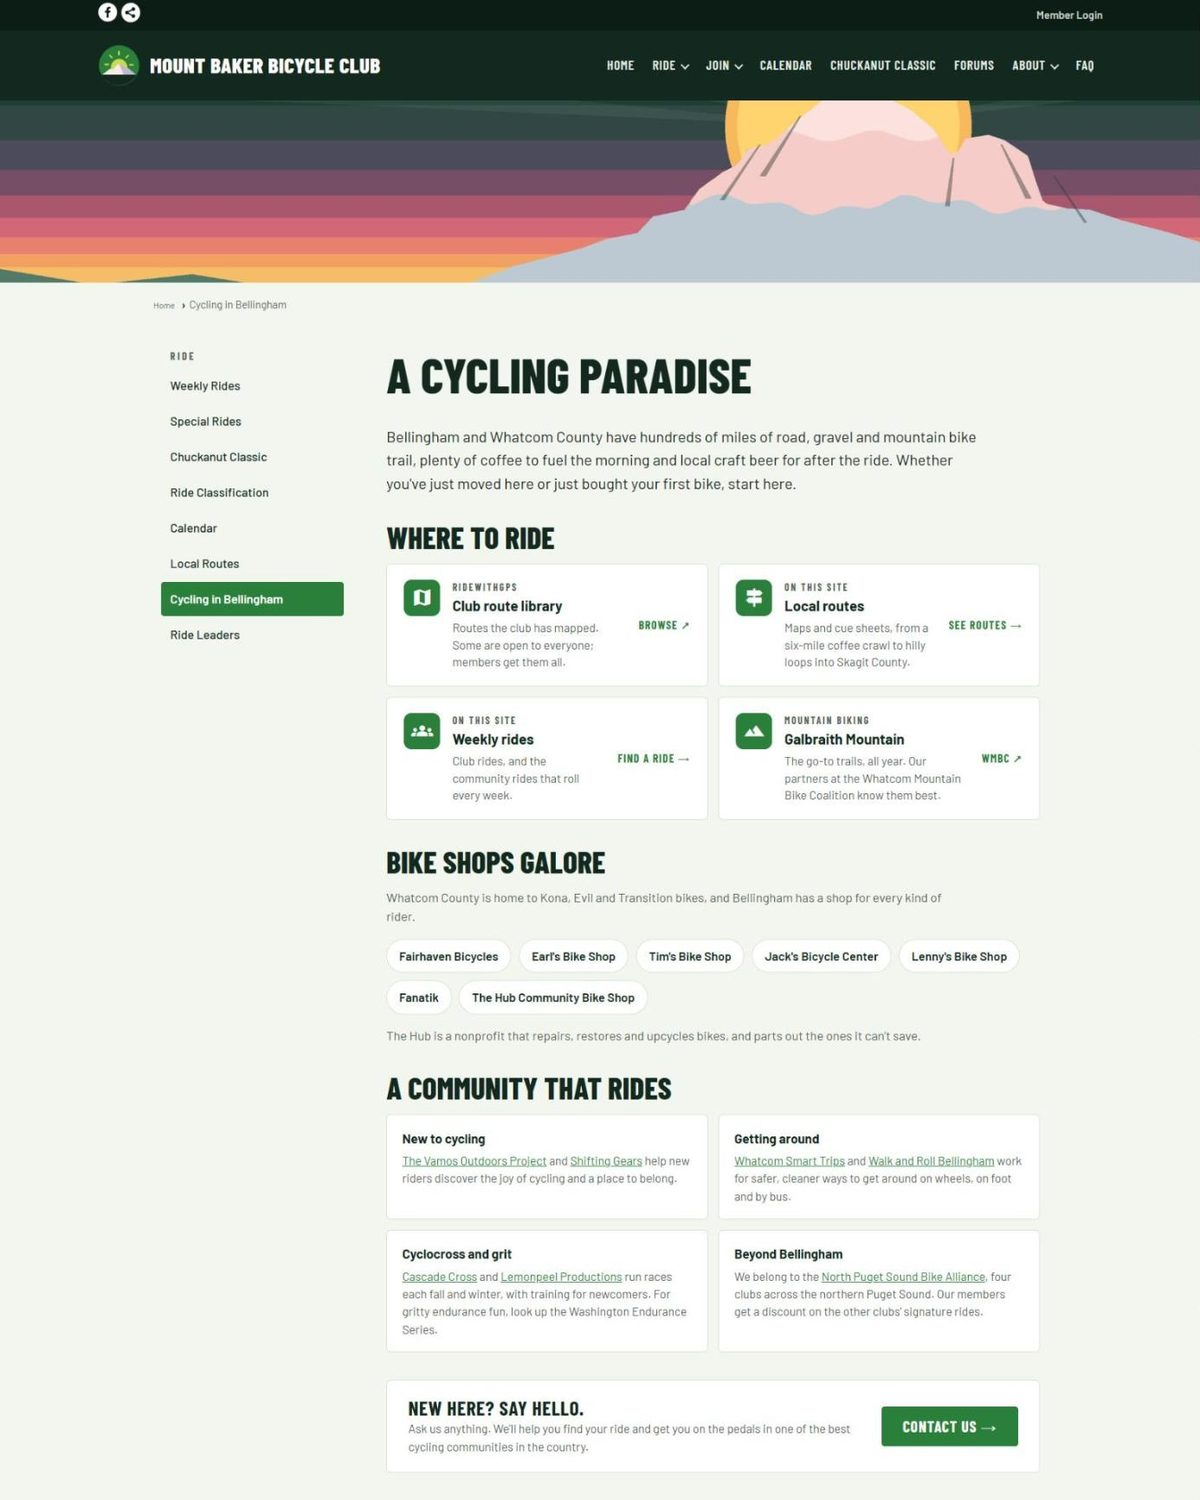
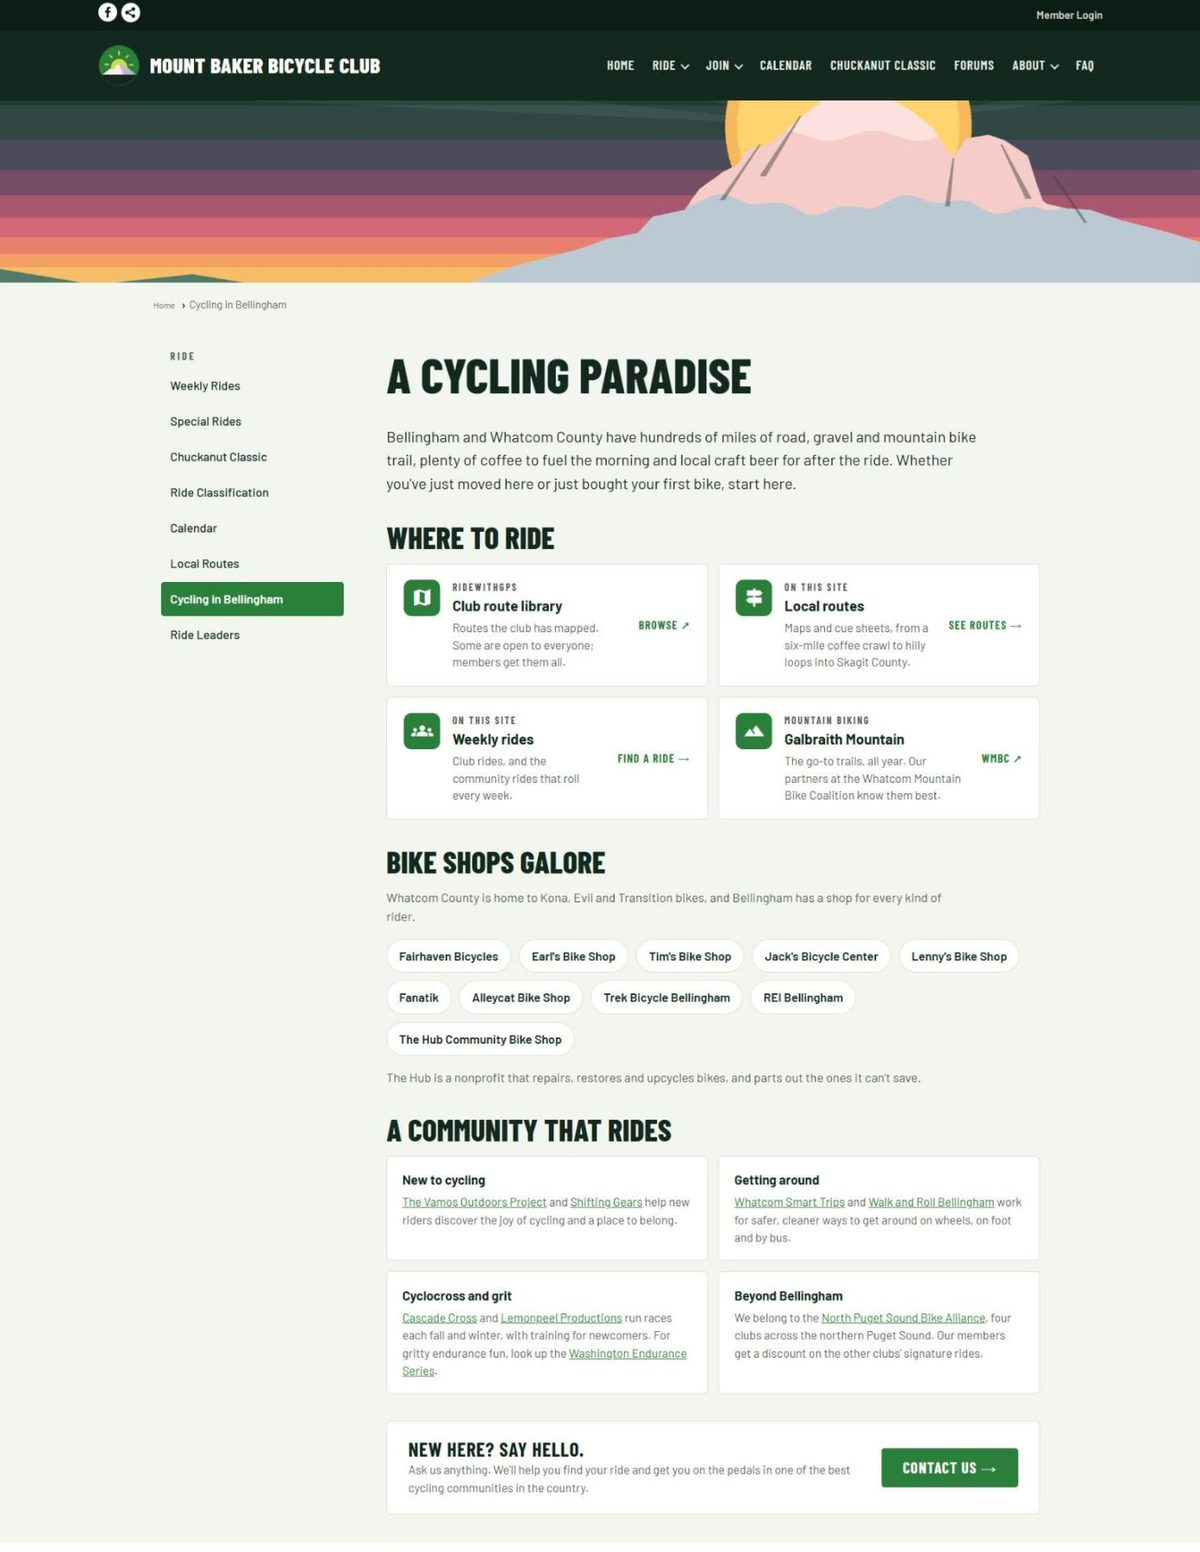
Show the full shop list and the inviting look
Retakes the Cycling in Bellingham and Where we ride shots after adding
Alleycat, Trek and REI, and says in the introduction why the look matters:
an inviting site gets people to look around.

diff --git a/index.html b/index.html
@@ -379,7 +379,7 @@
   <div class="wrap">
     <p class="eyebrow">Mount Baker Bicycle Club · For the board</p>
     <h1>A new look for <span>mtbakerbikeclub.org</span></h1>
-    <p class="lede">The proposed redesign of our website, side by side with the site we have today. It's ready in ClubExpress as a saved draft. Nothing changes on the live site until the board approves it.</p>
+    <p class="lede">The proposed redesign of our website, side by side with the site we have today. A site that looks inviting gets people to look around: to find a ride, to join, and to come back. It's ready in ClubExpress as a saved draft. Nothing changes on the live site until the board approves it.</p>
   </div>
 </header>
 
@@ -538,7 +538,7 @@
       </figure>
       <figure class="shot">
         <figcaption><span class="tag tag-new">Proposed</span>Cycling in Bellingham</figcaption>
-        <a class="frame" href="img/bellingham-after.jpg"><img src="img/bellingham-after.jpg" width="1200" height="1500" loading="lazy" alt="The proposed Cycling in Bellingham page, headed A cycling paradise: cards for where to ride, the local bike shops as buttons, four cards on the cycling community, and a New here? Say hello box with a Contact us button."></a>
+        <a class="frame" href="img/bellingham-after.jpg"><img src="img/bellingham-after.jpg" width="1200" height="1552" loading="lazy" alt="The proposed Cycling in Bellingham page, headed A cycling paradise: cards for where to ride, the local bike shops as buttons, four cards on the cycling community, and a New here? Say hello box with a Contact us button."></a>
       </figure>
     </div>
   </section>
